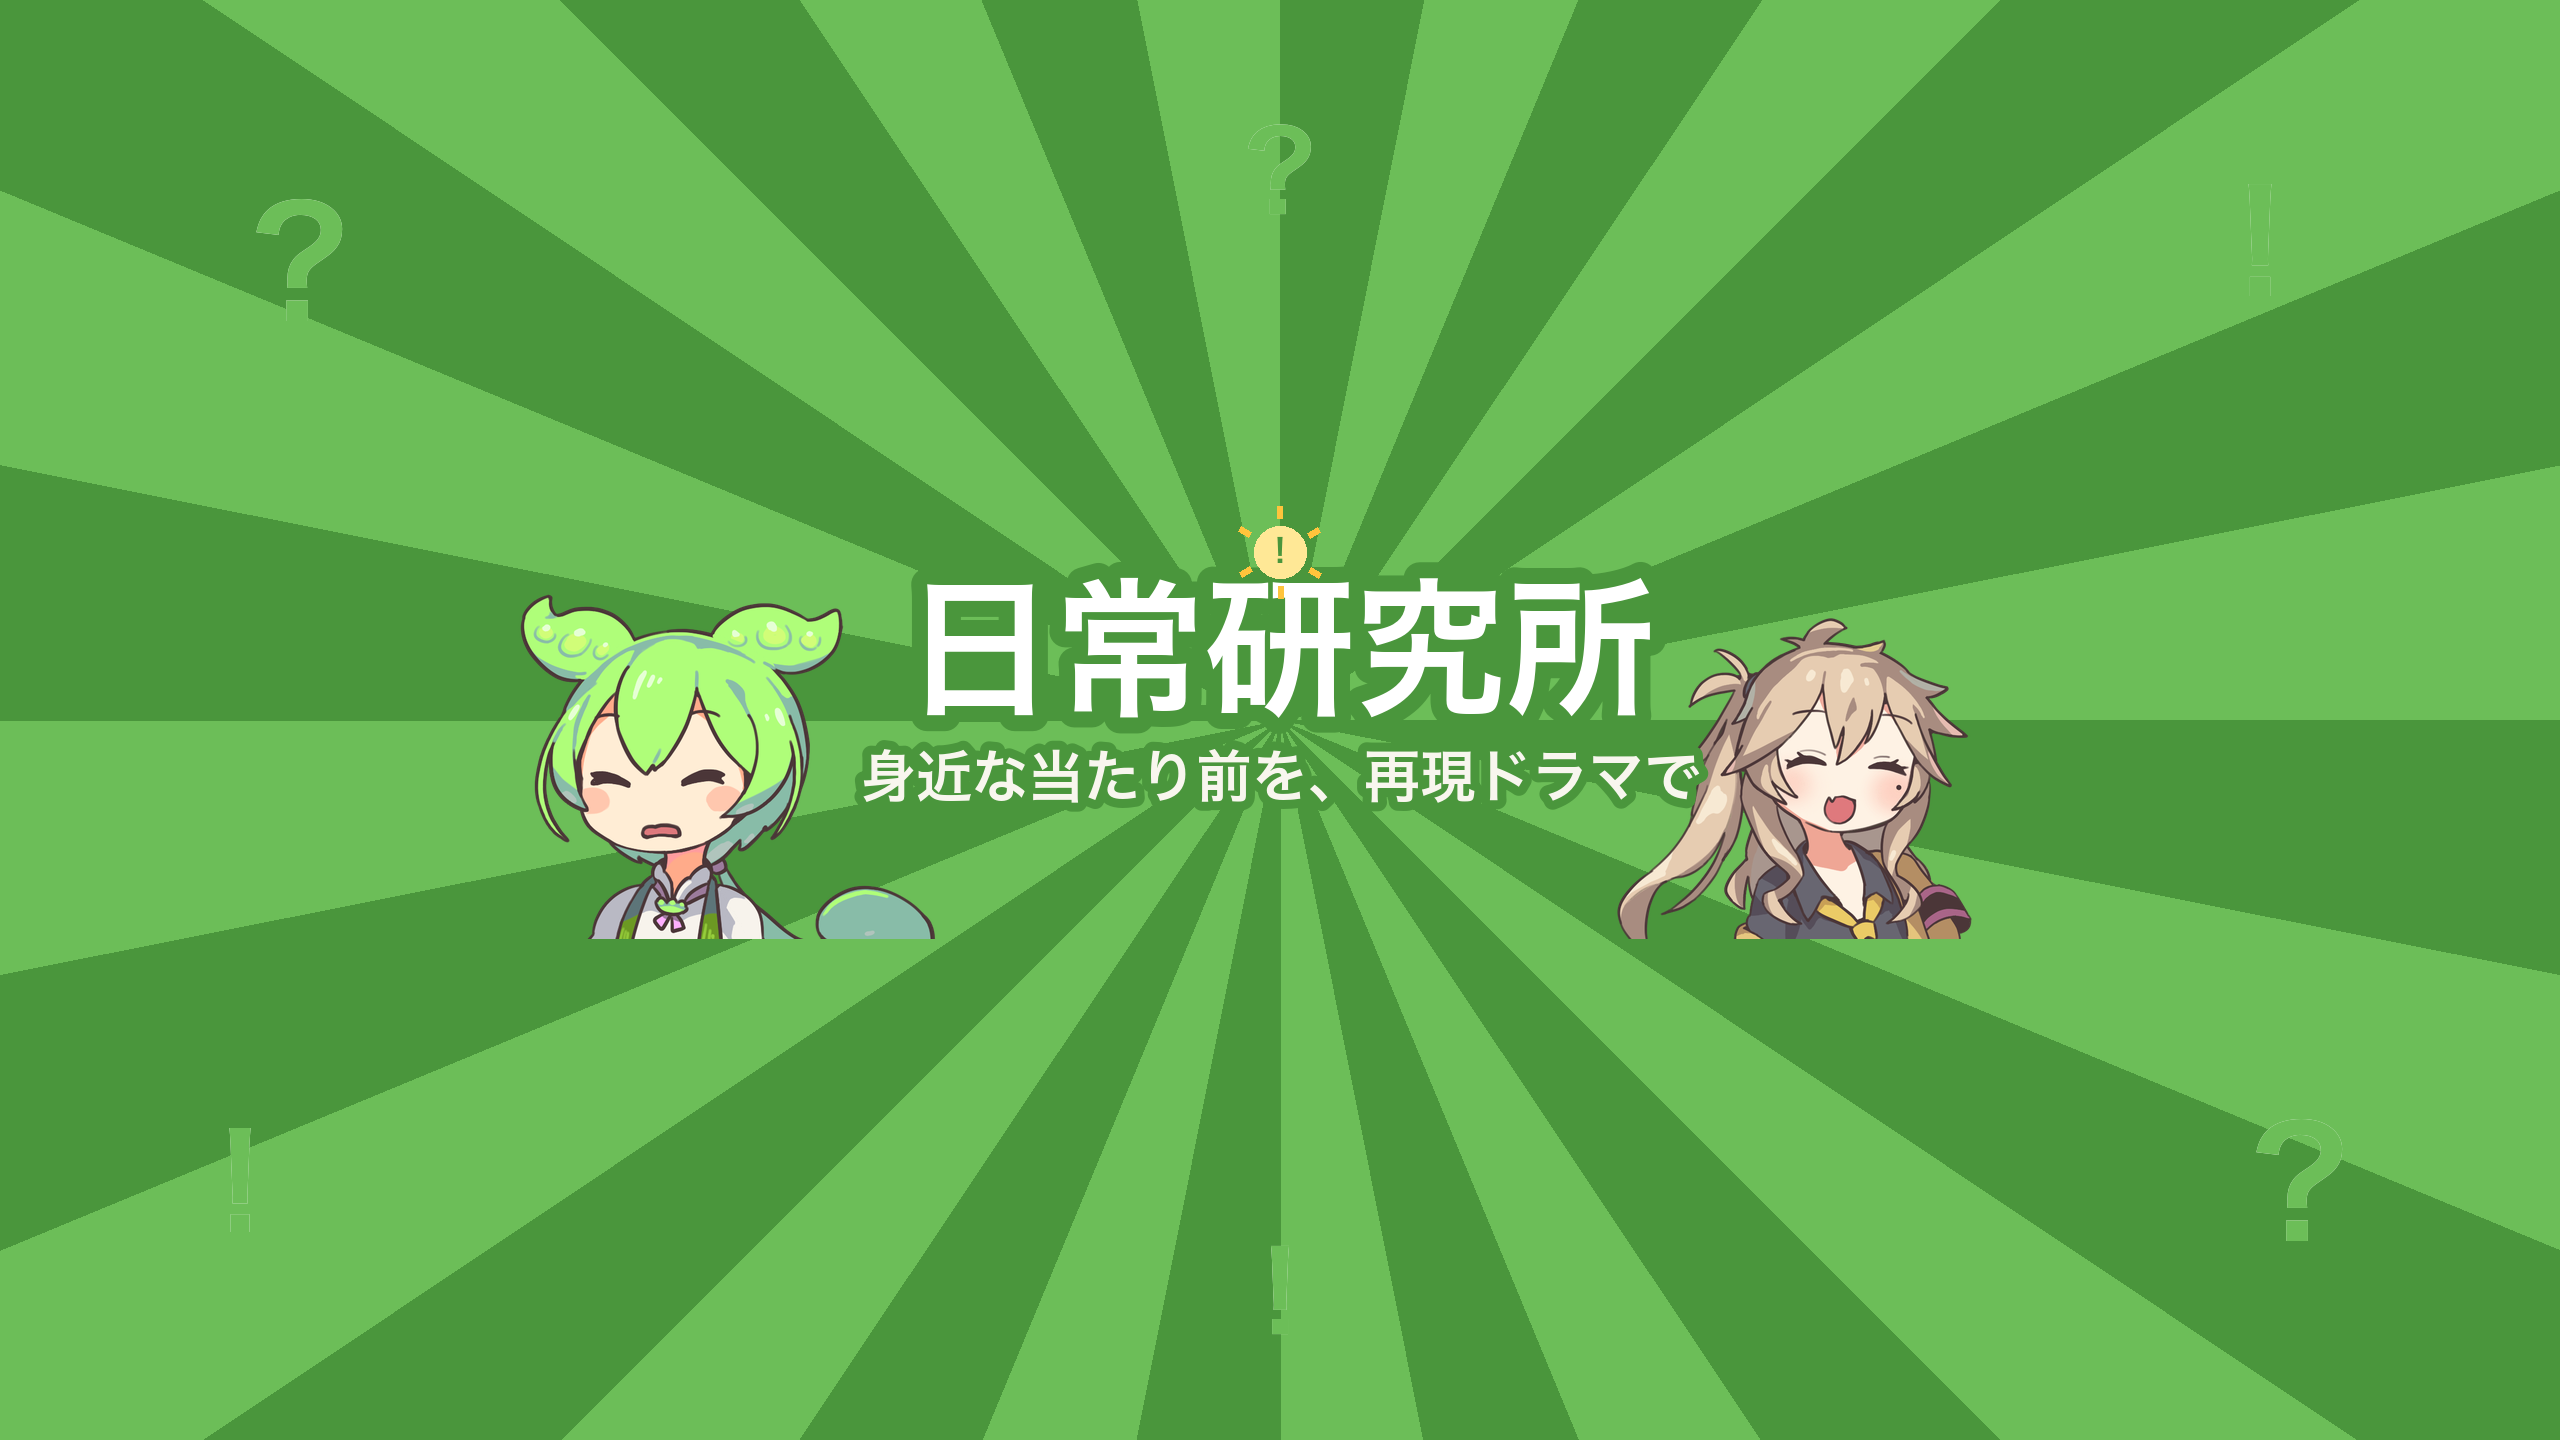
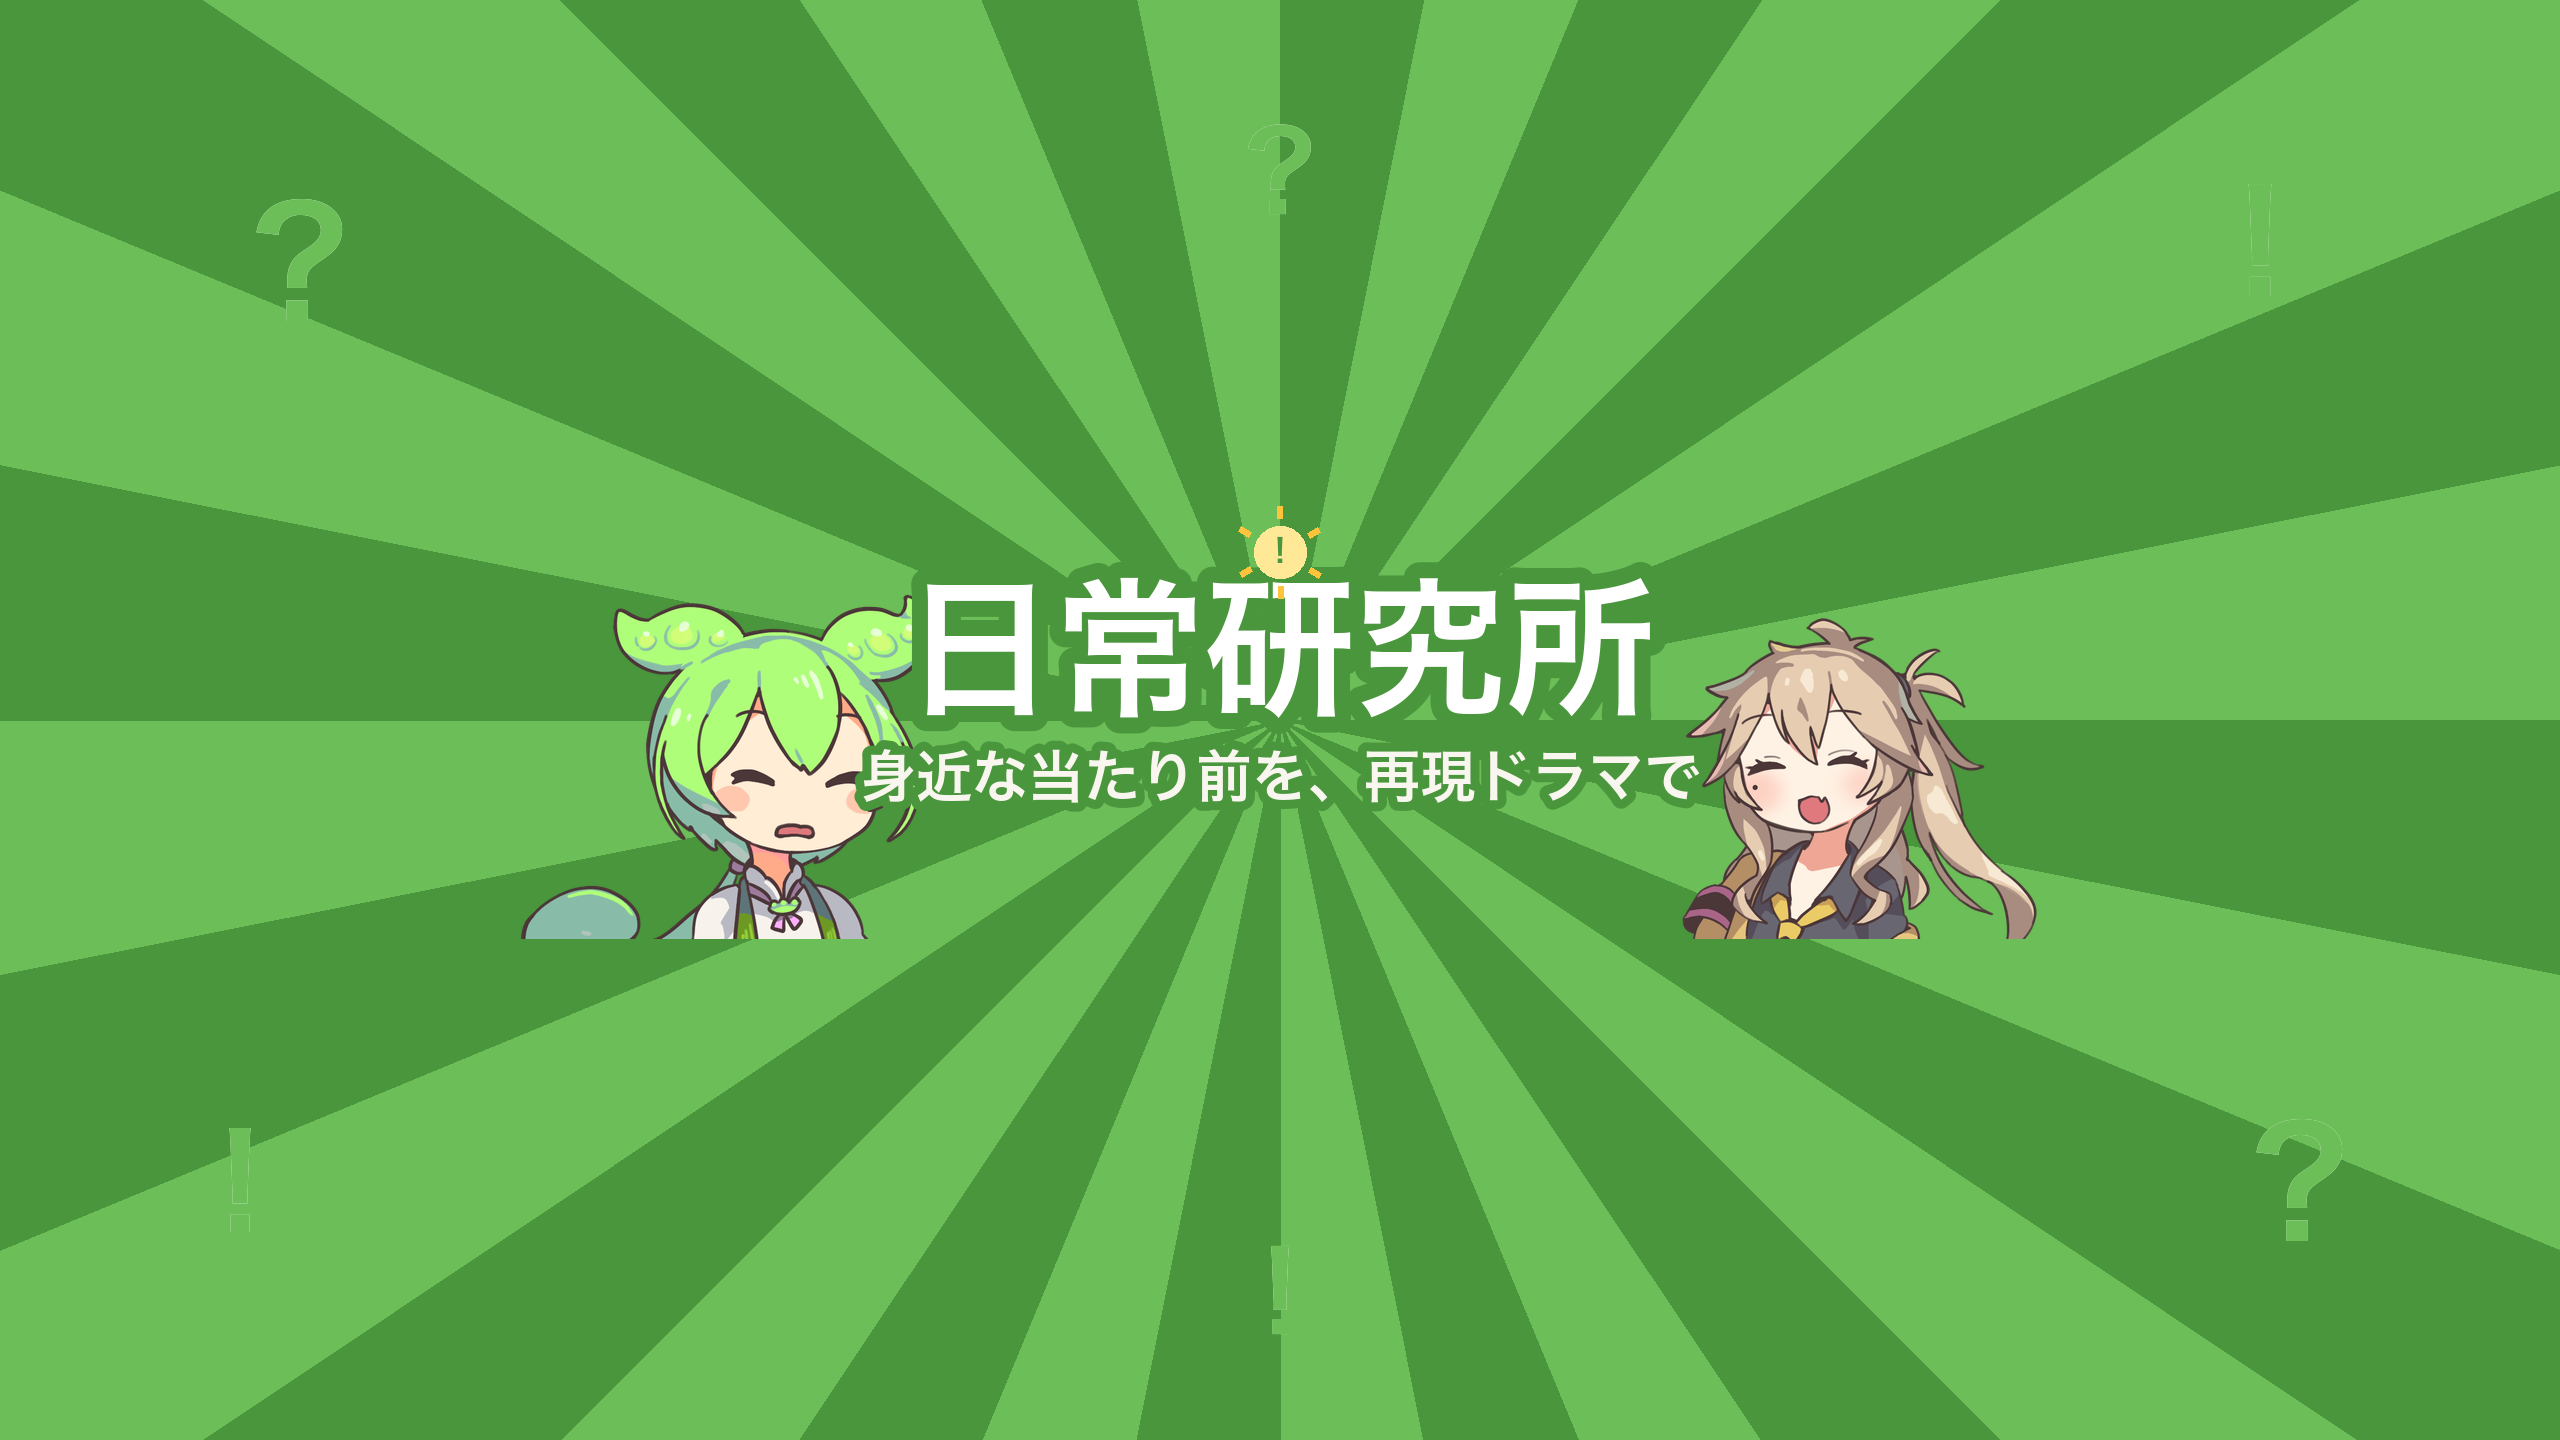
バナー修正: 2人の向きを内側へ（動画ステージと同じ、ずんだもん反転・つむぎ元向き）

Changed region(s): [[0.1875, 0.4062, 0.375, 0.6562], [0.625, 0.4375, 0.8125, 0.6562]]

diff --git a/scripts/gen_channel_banner.py b/scripts/gen_channel_banner.py
@@ -65,12 +65,13 @@ def make_banner() -> Image.Image:
         im = im.crop((0, 0, im.width, int(im.height * head_ratio)))
         return im.resize((w, int(im.height * w / im.width)), Image.LANCZOS)
 
+    # 動画のステージと同じ向き: 左のずんだもんは反転して内側(右)へ、右のつむぎは元向きで内側(左)へ
     zw = 430
     zu = head_crop("zundamon", "happy", zw, 0.40)
+    zu = zu.transpose(Image.FLIP_LEFT_RIGHT)
     img.paste(zu, (SX0 + 6, SY0 + SAFE_H - zu.height + 8), zu)
     tw = 440
     ts = head_crop("tsumugi", "happy", tw, 0.38)
-    ts = ts.transpose(Image.FLIP_LEFT_RIGHT)
     img.paste(ts, (SX0 + SAFE_W - tw - 6, SY0 + SAFE_H - ts.height + 8), ts)
     # 中央の文字（キャラと横に並ぶ幅に抑える）
     d = ImageDraw.Draw(img)
